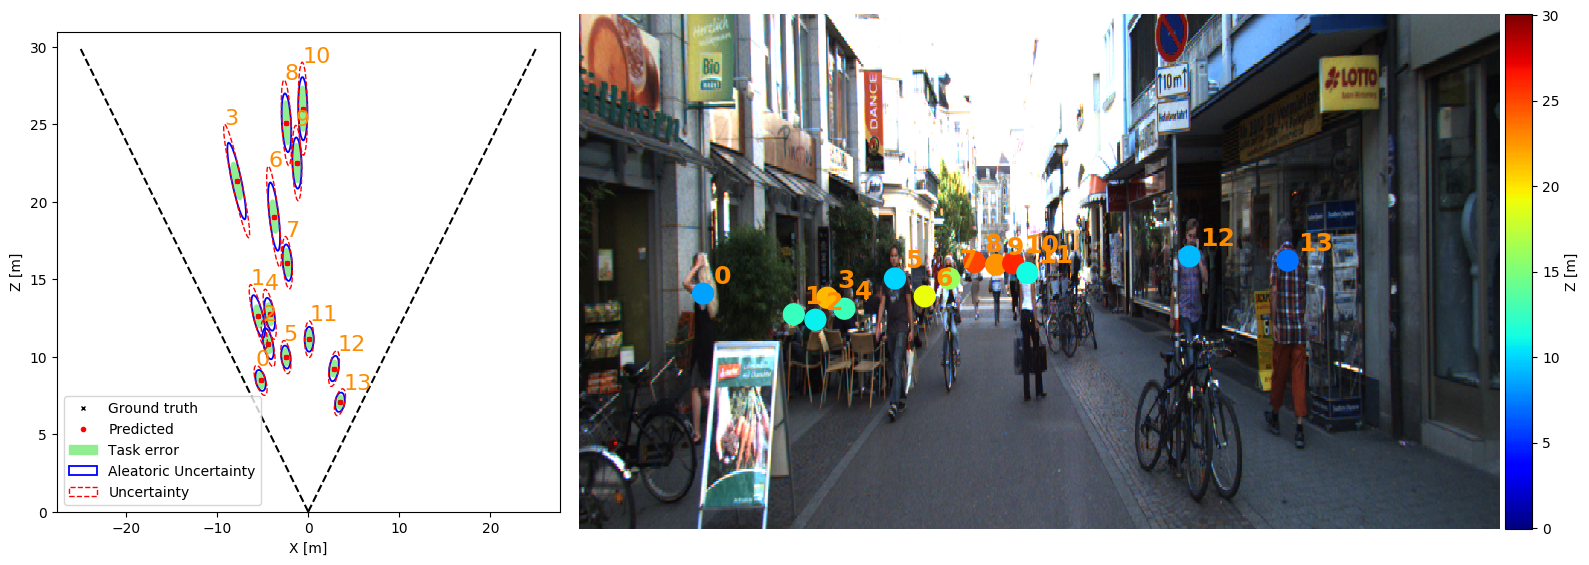
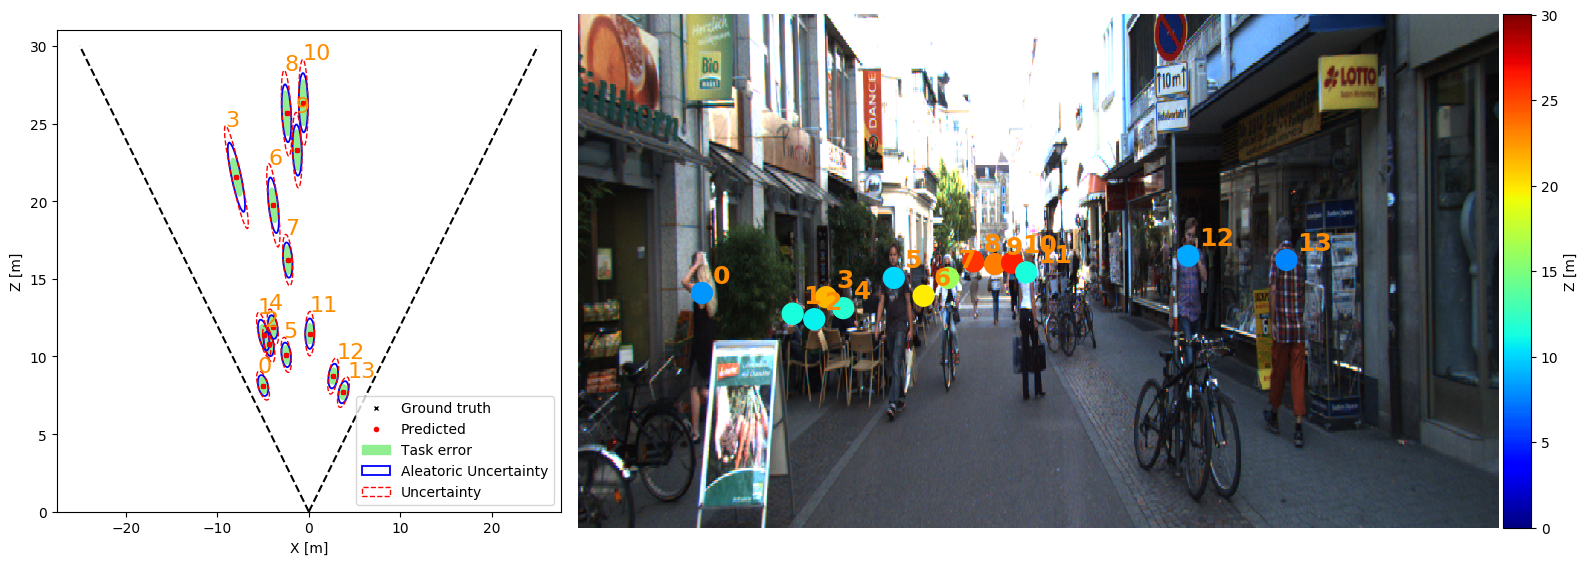
include epistemic uncertainty in vis limits

diff --git a/src/visuals/printer.py b/src/visuals/printer.py
@@ -28,7 +28,7 @@ class Printer:
         self.text = text
         self.epistemic = epistemic
         self.legend = legend
-        self.z_max = z_max
+        self.z_max = z_max # To include ellipses in the image
         self.fig_width = fig_width
 
         from utils.camera import pixel_to_camera, get_depth
@@ -38,14 +38,17 @@ class Printer:
         # Define the output dir
         self.path_out = output_path
 
-    # Define the birds eye view
-        self.xx_gt = [xx[0] for xx in dic_ann['xyz_real']]
-        self.zz_gt = [xx[2] for xx in dic_ann['xyz_real']]
-        self.xx_pred = [xx[0] for xx in dic_ann['xyz_pred']]
-        self.zz_pred = [xx[2] for xx in dic_ann['xyz_pred']]
-        self.dds_real = dic_ann['dds_real']
+        # Include the vectors inside the interval given by z_max
         self.stds_ale = dic_ann['stds_ale']
         self.stds_ale_epi = dic_ann['stds_epi']
+        self.xx_gt = [xx[0] for xx in dic_ann['xyz_real']]
+        self.zz_gt = [xx[2] if xx[2] < self.z_max - self.stds_ale_epi[idx] else 0
+                      for idx, xx in enumerate(dic_ann['xyz_real'])]
+        self.xx_pred = [xx[0] for xx in dic_ann['xyz_pred']]
+        self.zz_pred = [xx[2] if xx[2] < self.z_max - self.stds_ale_epi[idx] else 0
+                        for idx, xx in enumerate(dic_ann['xyz_pred'])]
+        self.dds_real = dic_ann['dds_real']
+
         self.uv_centers = dic_ann['uv_centers']
         self.uv_shoulders = dic_ann['uv_shoulders']
         self.uv_kps = dic_ann['uv_kps']
@@ -119,7 +122,7 @@ class Printer:
                 if self.draw_kps:
                     ax0 = self.show_kps(ax0, self.uv_kps[idx], self.y_scale, radius_kps, color_kps)
 
-                elif self.zz_pred[idx] < self.z_max and 0 < self.zz_gt[idx] < self.z_max:
+                elif min(self.zz_pred[idx], self.zz_gt[idx]) > 0:
                     color = cmap((self.zz_pred[idx] % self.z_max) / self.z_max)
                     circle = Circle((uv[0], uv[1] * self.y_scale), radius=radius, color=color, fill=True)
                     ax0.add_patch(circle)
@@ -163,7 +166,7 @@ class Printer:
             x_max = abs(xyz_max[0])  # shortcut to avoid oval circles in case of different kk
 
             for idx, _ in enumerate(self.xx_gt):
-                if 0 < self.zz_gt[idx] < self.z_max:
+                if self.zz_gt[idx] > 0:
                     target = get_target_error(self.dds_real[idx])
 
                     angle = get_angle(self.xx_gt[idx], self.zz_gt[idx])
@@ -175,7 +178,7 @@ class Printer:
             # Print prediction and the real ground truth. Color of prediction depends if ground truth exists
             num = 0
             for idx, _ in enumerate(self.xx_pred):
-                if 0 < self.zz_gt[idx] < self.z_max:  # only the merging ones and inside the interval
+                if self.zz_gt[idx] > 0:  # only the merging ones and inside the interval
 
                     angle = get_angle(self.xx_pred[idx], self.zz_pred[idx])
                     ellipse_ale = Ellipse((self.xx_pred[idx], self.zz_pred[idx]), width=self.stds_ale[idx] * 2,
